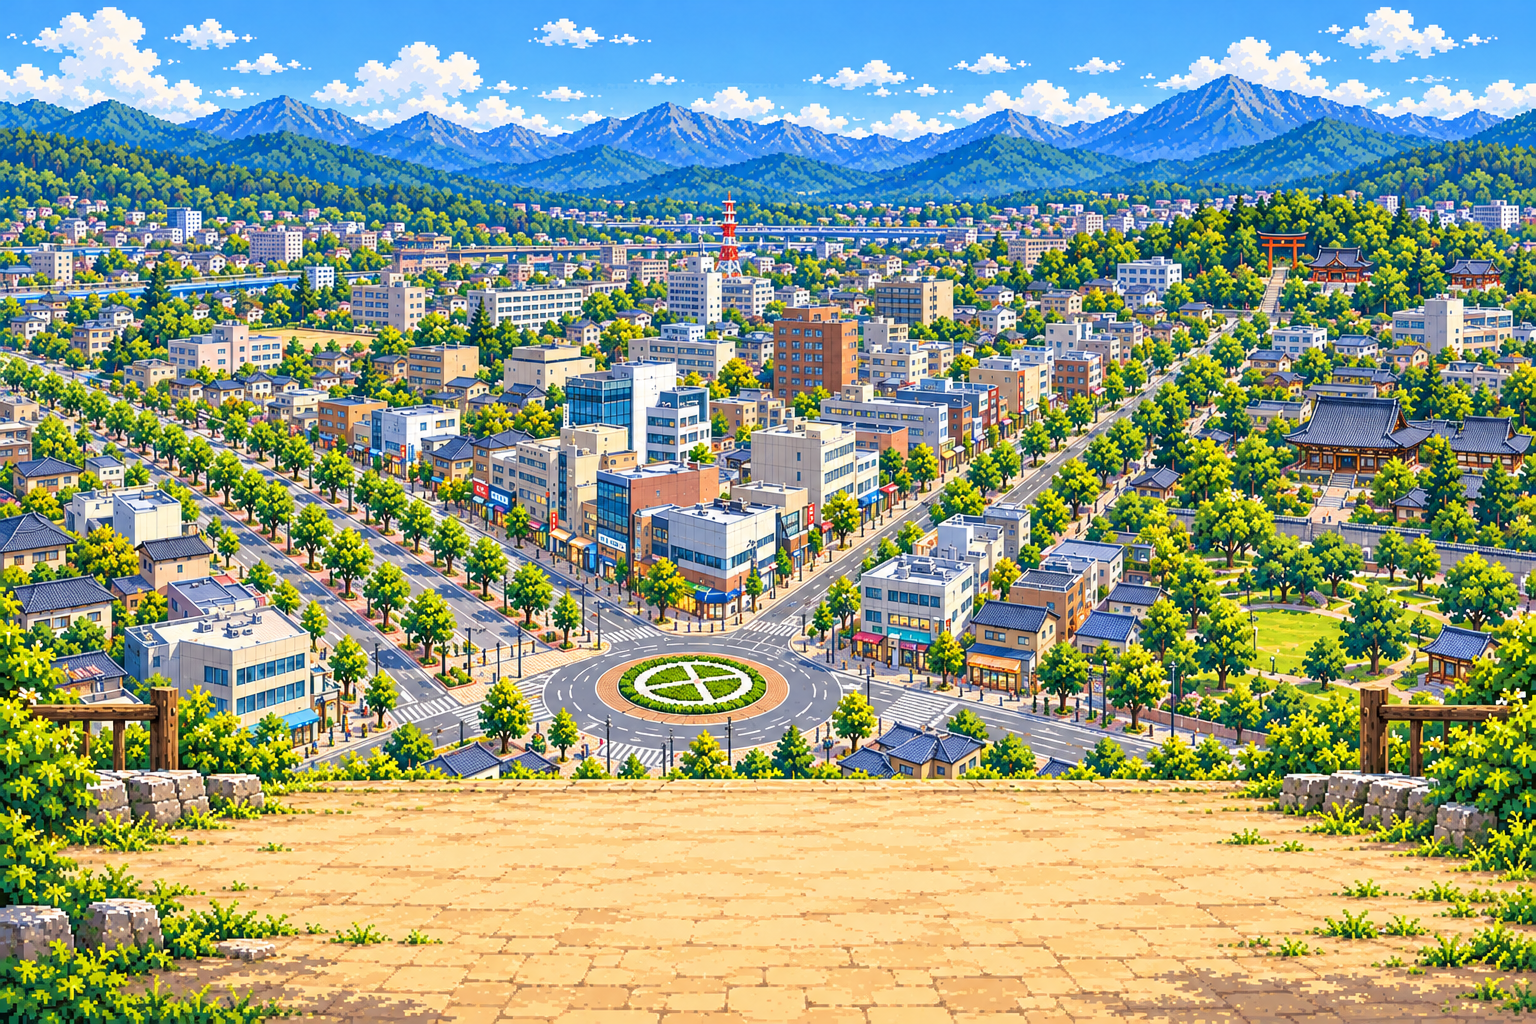
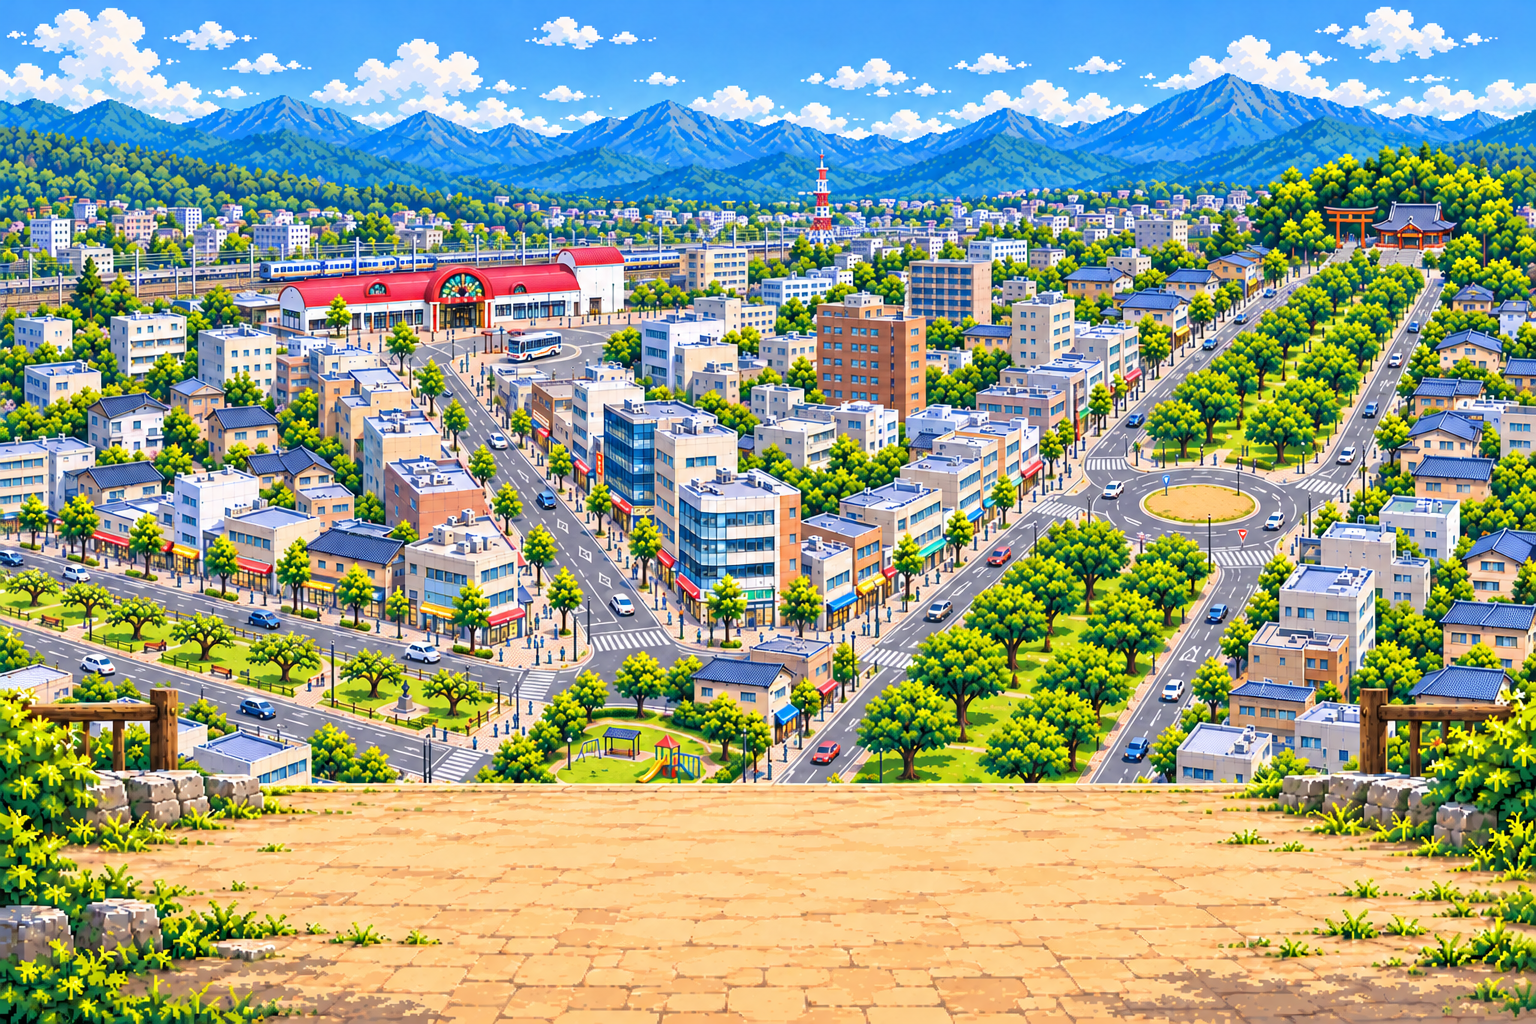
feat: replace the chushin district and erabu base pictures for ticket 028

diff --git a/assets/illust/README.md b/assets/illust/README.md
@@ -14,10 +14,10 @@
 | `erabu-iida-overview.png` | えらぶ 01 のプレビュー | 飯田市全体の風景（1536×1024）。地区名・ピンは入っていない |
 | `iida-districts-guide.png` | 画面では使わない | 上の絵に地区の境目を描きこんだ目安。赤：上郷、青：中心市街地、オレンジ：鼎、紫：伊賀良 |
 | `district-kamisato.png` | えらぶ 01 の選択肢 | 上郷の絵（1672×941） |
-| `district-chushin.png` | えらぶ 01 の選択肢 | 中心市街地の絵（1672×941）。手前にロータリー、左に白い花のりんご並木、右に桜の並木と公園 |
+| `district-chushin.png` | えらぶ 01 の選択肢 | 中心市街地の絵（1672×941）。奥に赤い屋根の駅と鳥居、右にロータリーと桜の並木、左に白い花のりんご並木、手前に公園 |
 | `district-kanae.png` | えらぶ 01 の選択肢 | 鼎の絵（1672×941）。桜の咲く広い道路と歩道、道沿いの店と駐車場、奥に山すその住宅と雪の山 |
 | `erabu-kamisato-base.png` | えらぶ 02〜04 のプレビュー | 季節のない上郷の風景（1536×1024）。手前の広場に家族などを重ねる |
-| `erabu-chushin-base.png` | えらぶ 02〜04 のプレビュー（中心市街地） | 季節のない中心市街地の風景（1536×1024）。高台の広場からロータリーと町並みを見下ろす。手前の広場は上郷と同じ位置で、家族などを重ねる |
+| `erabu-chushin-base.png` | えらぶ 02〜04 のプレビュー（中心市街地） | 季節のない中心市街地の風景（1536×1024）。01 と同じ町並み（奥に赤い屋根の駅と鳥居、右にロータリーと緑の並木）を高台の広場から見下ろす。手前の広場は上郷と同じ位置で、家族などを重ねる |
 | `erabu-kanae-base.png` | えらぶ 02〜04 のプレビュー（鼎） | 季節のない鼎の風景（1536×1024）。高台のレンガの広場から、交差点と道沿いの店、町並みと山を見下ろす。手前の広場に家族などを重ねる。学校・駅・避難場所は描かれていない |
 | `erabu-kanae-priorities.png` | えらぶ 05 のプレビュー（鼎） | 鼎の広場からバス停と広い道路、左奥の時計の校舎、右奥の避難場所の標識を見わたす風景（1536×1024）。切り出しなし |
 | `erabu-kamisato-priorities.png` | えらぶ 05 のプレビュー | 上郷の高台から学校・駅・避難場所の標識を見わたす風景（1672×941）。プレビューの枠（3:2）に合わせて、左を 220px 落として切り出す |

diff --git a/docs/028_illustrated-game-ui.md b/docs/028_illustrated-game-ui.md
@@ -810,6 +810,13 @@
 | 秋 | 伊賀良地区文化祭 | 例年11月上旬 | `event-igara-bunkasai.png` |
 | 冬 | 冬季スポーツ交流会（分館対抗） | 例年2月上旬 | `event-igara-winter-sports.png` |
 
+## 次のセッションへの引き継ぎ（2026-11-04 中心市街地のえらぶ 01〜04 の絵の差しかえのあと）
+
+- **差しかえた**：`district-chushin.png`（えらぶ 01 の選択肢とカルテ（PC）の「対象の4地区」）と `erabu-chushin-base.png`（えらぶ 02〜04）を、まさゆきさんの新しい絵に変えた。同じ町並み（奥に赤い屋根の駅と鳥居、右にロータリー）で、01 は桜と白い花の並木、02〜04 は季節のない緑の木。2026-11-04 まさゆきさん OK
+- 手前の広場の位置は前の絵と同じなので、家族・家・車の位置は変えていない（スクショは `~/dear-life-screenshots/2026-11-04-chushin-new-pictures-2/`）
+- **注意**：05 の背景（`erabu-chushin-priorities.png`）とくらしの絵は差しかえていないので、前の町並みのまま。まさゆきさんから指示があれば同じ形で変える
+- **次にやること：伊賀良**（「2026-11-04 鼎の公開のあと」のとおり）
+
 ## 完了条件
 
 - 上郷・春で、えらぶ 01〜05 とくらしが4枚の見本と並べて大きな違いがない
